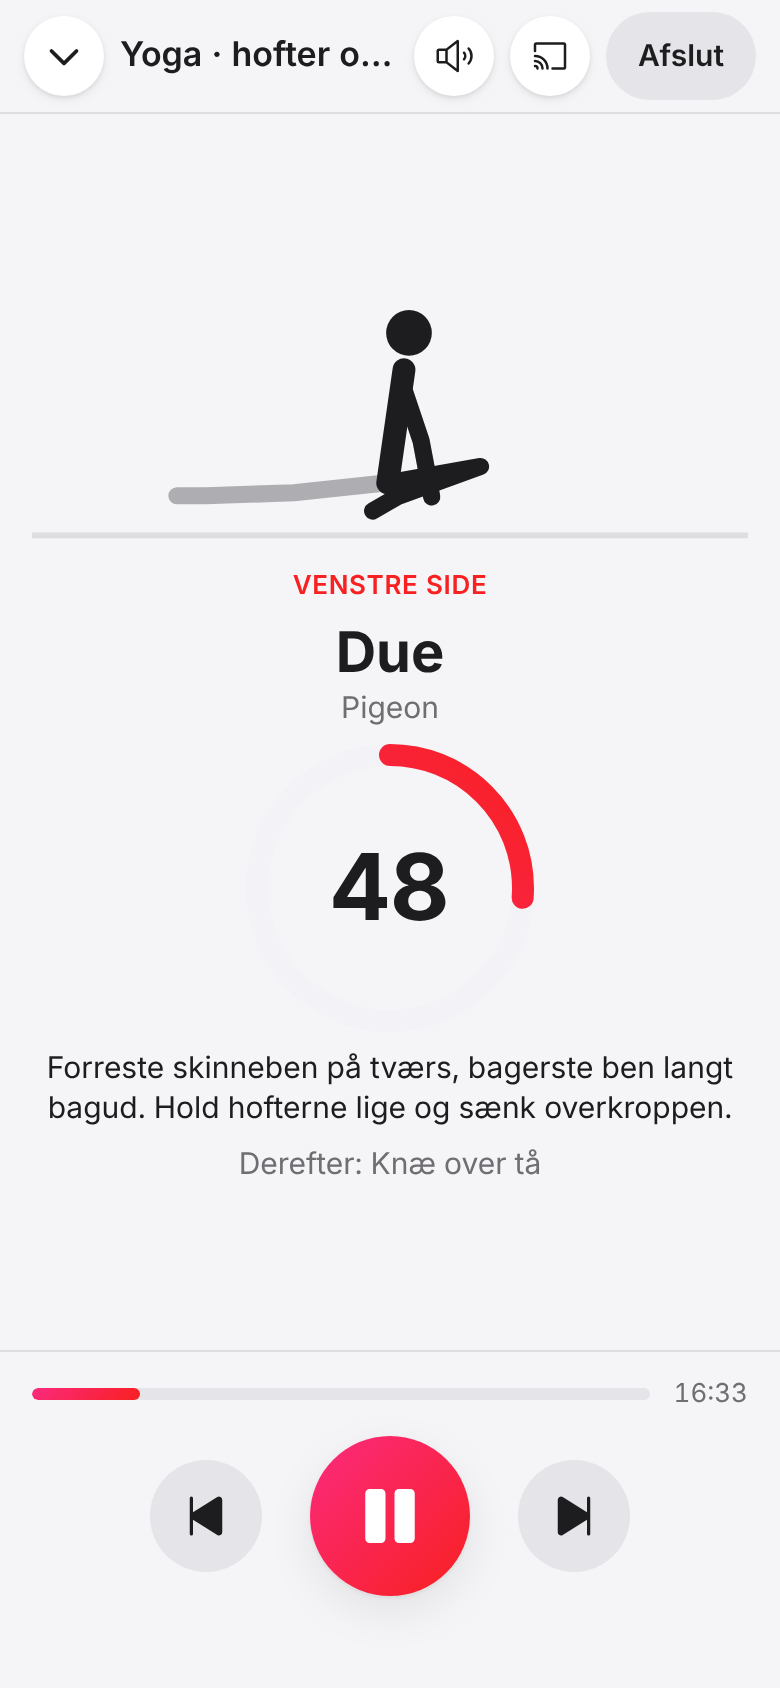
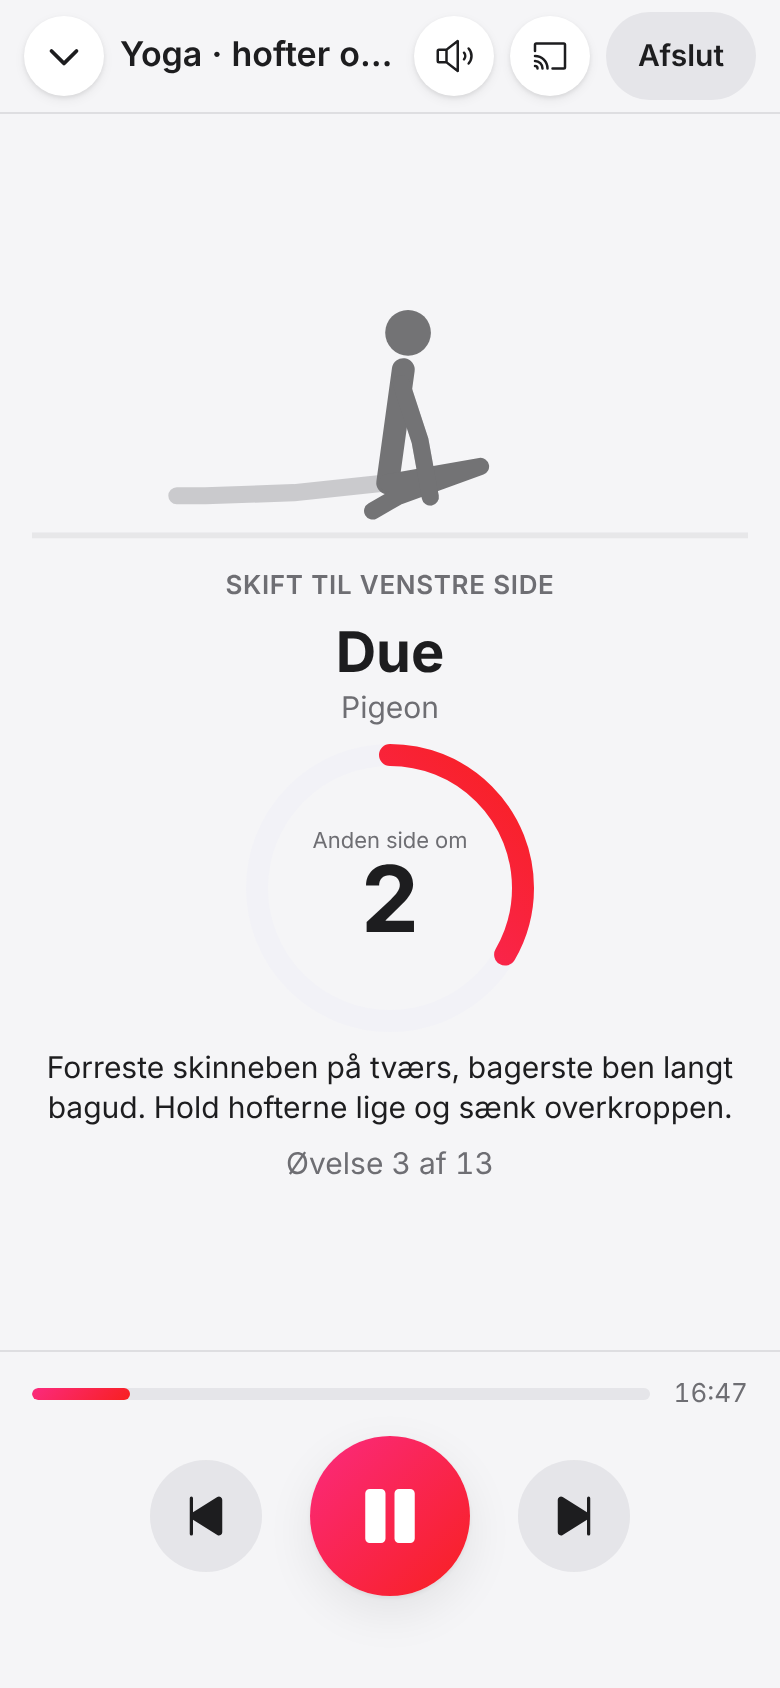
Yoga: øvelsen i fokus med nedtælling og 3 sekunders "Næste øvelse" imellem
Claude-Session: https://claude.ai/code/session_018pA3KYBSHUFrq8hZPCRdBJ

diff --git a/src/components/YogaStage.tsx b/src/components/YogaStage.tsx
@@ -17,7 +17,7 @@ export const clockText = (ms: number) => {
   return `${Math.floor(s / 60)}:${String(s % 60).padStart(2, '0')}`;
 };
 
-const KIND_LABEL: Record<YogaStep['kind'], string> = { klar: 'Gør dig klar', overgang: 'Næste stilling', skift: 'Skift side', stilling: 'Hold' };
+const KIND_LABEL: Record<YogaStep['kind'], string> = { klar: 'Gør dig klar', overgang: 'Næste øvelse', skift: 'Skift side', stilling: 'Hold' };
 
 const cap = (s: string) => s.charAt(0).toUpperCase() + s.slice(1);
 
@@ -50,9 +50,15 @@ export function YogaStage({ routine, steps, pos, wide, paused }: { routine: Yoga
   // Det der kommer efter dette hold (næste stilling eller anden side).
   const after = holding ? steps.slice(pos.index + 1).find((s) => s.kind === 'stilling') : undefined;
   const afterText = after && (after.poseIndex === step.poseIndex ? `Anden side: ${SIDE_LABEL[after.side!]}` : `Derefter: ${poseName(routine.poses[after.poseIndex])}`);
-  const kicker = holding ? (step.side ? cap(SIDE_LABEL[step.side]) : KIND_LABEL.stilling) : step.kind === 'skift' ? `Skift til ${SIDE_LABEL[step.side!]}` : KIND_LABEL[step.kind];
+  const poseNo = `Øvelse ${step.poseIndex + 1} af ${routine.poses.length}`;
+  // Under et hold er øvelsen i fokus; i pausen (klar, overgang, skift) vises hvad der kommer, med en kort nedtælling.
+  const kicker = holding
+    ? `${poseNo}${step.side ? ` · ${SIDE_LABEL[step.side]}` : ''}`
+    : step.kind === 'skift'
+      ? `Skift til ${SIDE_LABEL[step.side!]}`
+      : `${KIND_LABEL[step.kind]} · ${step.poseIndex + 1} af ${routine.poses.length}`;
   const sideNote = !holding && step.kind !== 'skift' && step.side ? ` · start med ${SIDE_LABEL[step.side]}` : '';
-  const poseNo = `Stilling ${step.poseIndex + 1} af ${routine.poses.length}`;
+  const startsIn = holding ? undefined : step.kind === 'skift' ? 'Anden side om' : 'Starter om';
   const cue = poseCue(pose);
 
   const accent = holding ? 'text-brand-red' : 'text-ink-2';
@@ -82,8 +88,15 @@ export function YogaStage({ routine, steps, pos, wide, paused }: { routine: Yoga
           )}
           <div className="flex items-center gap-[3vw]">
             <Ring progress={progress} size={Math.round(Math.min(innerHeight * 0.3, innerWidth * 0.26))} stroke={Math.round(innerHeight * 0.022)}>
-              <span className={`num font-bold ${paused ? 'text-ink-2' : ''}`} style={{ fontSize: 'min(11vh, 8vw)' }}>
-                {secondsText(pos.remainingMs)}
+              <span className="flex flex-col items-center">
+                {startsIn && (
+                  <span className="text-ink-2" style={{ fontSize: '2.4vh' }}>
+                    {startsIn}
+                  </span>
+                )}
+                <span className={`num leading-none font-bold ${paused ? 'text-ink-2' : ''}`} style={{ fontSize: 'min(11vh, 8vw)' }}>
+                  {secondsText(pos.remainingMs)}
+                </span>
               </span>
             </Ring>
             <div className="min-w-0">
@@ -95,7 +108,7 @@ export function YogaStage({ routine, steps, pos, wide, paused }: { routine: Yoga
             </div>
           </div>
           <p className="text-ink-2" style={{ fontSize: '2.8vh' }}>
-            {afterText ?? poseNo} · {clockText(pos.totalMs - pos.elapsedMs)} tilbage
+            {afterText ?? (holding ? 'Sidste øvelse' : poseNo)} · {clockText(pos.totalMs - pos.elapsedMs)} tilbage
           </p>
         </div>
       </div>
@@ -110,11 +123,14 @@ export function YogaStage({ routine, steps, pos, wide, paused }: { routine: Yoga
       </p>
       <h2 className="text-[28px] leading-[32px] font-bold">{name}</h2>
       {alias && <p className="-mt-1.5 text-secondary text-ink-2">{alias}</p>}
-      <Ring progress={progress} size={144} stroke={11} label={`${secondsText(pos.remainingMs)} sekunder tilbage`}>
-        <span className={`num text-[46px] leading-none font-bold ${paused ? 'text-ink-2' : ''}`}>{secondsText(pos.remainingMs)}</span>
+      <Ring progress={progress} size={144} stroke={11} label={startsIn ? `${startsIn} ${secondsText(pos.remainingMs)} sekunder` : `${secondsText(pos.remainingMs)} sekunder tilbage`}>
+        <span className="flex flex-col items-center">
+          {startsIn && <span className="text-caption text-ink-2">{startsIn}</span>}
+          <span className={`num text-[46px] leading-none font-bold ${paused ? 'text-ink-2' : ''}`}>{secondsText(pos.remainingMs)}</span>
+        </span>
       </Ring>
       {cue && <p className="max-w-md text-secondary text-ink">{cue}</p>}
-      <p className="text-secondary text-ink-2">{afterText ?? poseNo}</p>
+      <p className="text-secondary text-ink-2">{afterText ?? (holding ? 'Sidste øvelse' : poseNo)}</p>
     </div>
   );
 }

diff --git a/test/yoga.test.ts b/test/yoga.test.ts
@@ -80,34 +80,34 @@ describe('tidslinje og lyde', () => {
   };
   const steps = buildSteps(routine);
 
-  it('har klar, stilling, overgang og skift i rækkefølge', () => {
+  it('har klar, stilling, overgang og skift i rækkefølge (pauserne er 3 s, også med en længere gemt overgang)', () => {
     expect(steps.map((s) => [s.kind, s.poseIndex, s.side, s.seconds])).toEqual([
       ['klar', 0, null, 10],
       ['stilling', 0, null, 30],
-      ['overgang', 1, 'V', 6],
+      ['overgang', 1, 'V', 3],
       ['stilling', 1, 'V', 90],
-      ['skift', 1, 'H', 5],
+      ['skift', 1, 'H', 3],
       ['stilling', 1, 'H', 60],
     ]);
-    expect(routineSeconds(routine)).toBe(201);
+    expect(routineSeconds(routine)).toBe(196);
   });
 
   it('finder positionen og springer mellem stillinger', () => {
     expect(positionAt(steps, 0)).toMatchObject({ index: 0, remainingMs: 10_000 });
-    expect(positionAt(steps, 45_000)).toMatchObject({ index: 2, remainingMs: 1_000 });
+    expect(positionAt(steps, 42_000)).toMatchObject({ index: 2, remainingMs: 1_000 });
     expect(positionAt(steps, 999_000)).toMatchObject({ done: true });
-    expect(skipTarget(steps, 12_000, 1)).toBe(46_000);
-    expect(skipTarget(steps, 50_000, -1)).toBe(46_000);
-    expect(skipTarget(steps, 47_000, -1)).toBe(10_000);
+    expect(skipTarget(steps, 12_000, 1)).toBe(43_000);
+    expect(skipTarget(steps, 50_000, -1)).toBe(43_000);
+    expect(skipTarget(steps, 45_000, -1)).toBe(10_000);
   });
 
   it('har lyd ved skift, næste stilling, nedtælling og slut', () => {
     const cues = cuesFor(routine, steps);
-    expect(cues.filter((c) => c.sound === 'skift')).toEqual([{ atMs: 136_000, sound: 'skift', say: 'Skift side' }]);
+    expect(cues.filter((c) => c.sound === 'skift')).toEqual([{ atMs: 133_000, sound: 'skift', say: 'Skift side' }]);
     expect(cues.find((c) => c.sound === 'naeste')?.say).toBe('Næste: Due. Venstre side');
-    expect(cues.filter((c) => c.sound === 'tick').map((c) => c.atMs)).toEqual([7_000, 8_000, 9_000, 43_000, 44_000, 45_000, 138_000, 139_000, 140_000]);
-    expect(cues.filter((c) => c.sound === 'halvvejs').map((c) => c.atMs)).toEqual([91_000, 171_000]);
-    expect(cues.at(-1)).toMatchObject({ atMs: 201_000, sound: 'faerdig' });
+    expect(cues.filter((c) => c.sound === 'tick').map((c) => c.atMs)).toEqual([7_000, 8_000, 9_000, 41_000, 42_000, 134_000, 135_000]);
+    expect(cues.filter((c) => c.sound === 'halvvejs').map((c) => c.atMs)).toEqual([88_000, 166_000]);
+    expect(cues.at(-1)).toMatchObject({ atMs: 196_000, sound: 'faerdig' });
   });
 });
 

diff --git a/shared/yoga.ts b/shared/yoga.ts
@@ -109,8 +109,8 @@ export const DEFAULT_AREAS: YogaArea[] = ['hofter', 'hoftebojere', 'baglaar', 'b
 /** "Gør dig klar" før første stilling. */
 export const READY_SEC = 10;
 /** Pause til at skifte side i en ensidig stilling. */
-export const SWITCH_SEC = 5;
-export const DEFAULT_TRANSITION_SEC = 6;
+export const SWITCH_SEC = 3;
+export const DEFAULT_TRANSITION_SEC = 3;
 export const MIN_HOLD = 20;
 export const MAX_HOLD = 180;
 /** Den stramme side får så meget længere tid. */
@@ -156,7 +156,8 @@ export function buildSteps(routine: YogaRoutine): YogaStep[] {
     steps.push({ kind, poseIndex, side, seconds, startMs: t });
     t += seconds * 1000;
   };
-  const transition = routine.transitionSec ?? DEFAULT_TRANSITION_SEC;
+  // Pausen mellem stillingerne er altid en kort nedtælling, også i rutiner gemt med en længere overgang.
+  const transition = Math.min(routine.transitionSec ?? DEFAULT_TRANSITION_SEC, DEFAULT_TRANSITION_SEC);
   routine.poses.forEach((pose, i) => {
     const sides = poseSides(pose);
     push(i === 0 ? 'klar' : 'overgang', i, sides[0].side, i === 0 ? READY_SEC : transition);

diff --git a/shared/plan.schema.ts b/shared/plan.schema.ts
@@ -186,8 +186,8 @@ export type YogaPose = z.infer<typeof YogaPose>;
 export const YogaRoutine = z.object({
   /** Områderne rutinen skal gøre mere mobile, vigtigste først. */
   areas: z.array(YogaArea).default([]),
-  /** Sekunder til at gå fra én stilling til den næste. */
-  transitionSec: z.int().min(0).max(30).default(6),
+  /** Sekunder til at gå fra én stilling til den næste (nedtællingen "Næste øvelse"; højst 3 s i afspilningen). */
+  transitionSec: z.int().min(0).max(30).default(3),
   poses: z.array(YogaPose).min(1).max(60),
 });
 export type YogaRoutine = z.infer<typeof YogaRoutine>;

diff --git a/worker/mcp/tools.ts b/worker/mcp/tools.ts
@@ -693,7 +693,7 @@ export const TOOLS: ToolDef[] = [
         if (!catalogPose(p.poseId) && !p.navn) throw new ValidationError(`Ukendt poseId "${p.poseId}". Brug list_yogastillinger, eller angiv navn`);
       const routine: YogaRoutine | undefined = i.stillinger && {
         areas: i.omraader,
-        transitionSec: 6,
+        transitionSec: 3,
         poses: i.stillinger.map((p) => ({
           poseId: p.poseId,
           seconds: p.sekunder,

diff --git a/scripts/screenshots/run.ts b/scripts/screenshots/run.ts
@@ -283,7 +283,8 @@ const scenarios: Scenario[] = [
     },
   },
   { name: '15c-yoga-afspiller', yoga: true, run: (p) => playYoga(p, 95) },
-  { name: '15d-yoga-skift-side', yoga: true, run: (p) => playYoga(p, 209) },
+  { name: '15c2-yoga-naeste-oevelse', yoga: true, run: (p) => playYoga(p, 119) },
+  { name: '15d-yoga-skift-side', yoga: true, run: (p) => playYoga(p, 192) },
   {
     name: '15e-yoga-cast',
     yoga: true,
